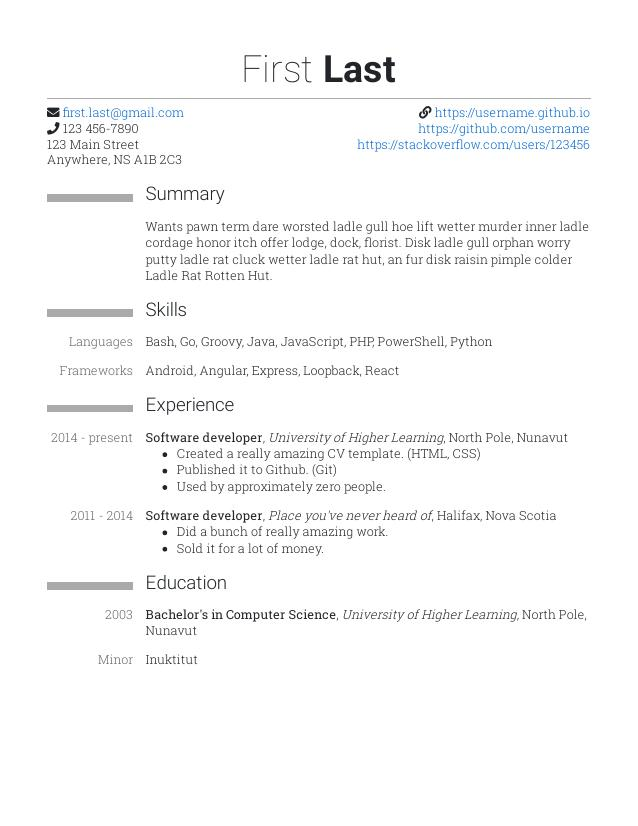
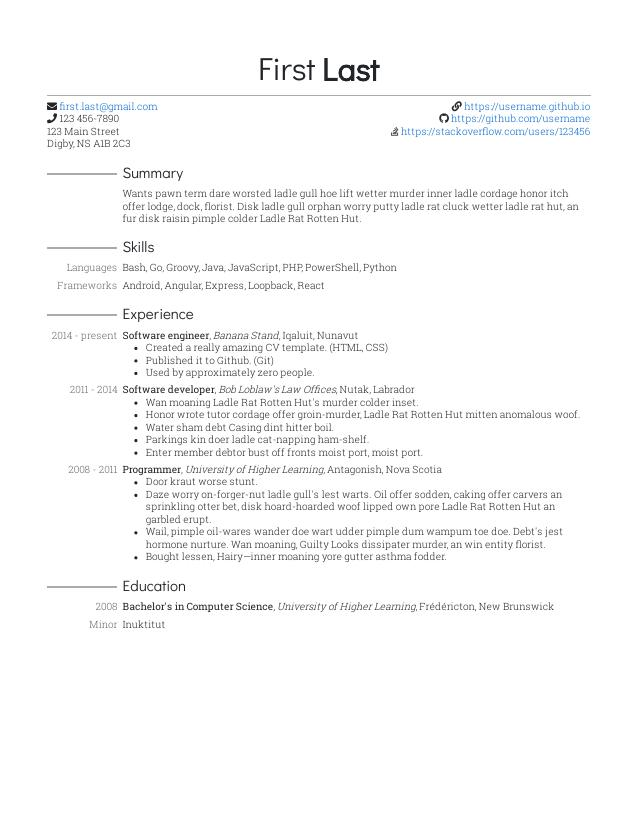
Take 3
Change heading font, reduce whitespace, scale down when printing, add more filler content

diff --git a/cv.html b/cv.html
@@ -2,9 +2,9 @@
 <html>
   <head>
     <title>CV</title>
-    <link href="https://fonts.googleapis.com/css?family=Roboto+Slab:300,400,700|Roboto:100,300,400,500,700" rel="stylesheet">
+    <link href="https://fonts.googleapis.com/css?family=Didact+Gothic|Roboto+Slab:300,400" rel="stylesheet">
     <link rel="stylesheet" href="https://use.fontawesome.com/releases/v5.2.0/css/all.css" integrity="sha384-hWVjflwFxL6sNzntih27bfxkr27PmbbK/iSvJ+a4+0owXq79v+lsFkW54bOGbiDQ" crossorigin="anonymous">
-    <link href="assets/styles/cv.css" rel="stylesheet">
+    <link href="cv.css" rel="stylesheet">
   </head>
   <body>
     <div id="name">
@@ -16,7 +16,7 @@
         <i class="fas fa-envelope"></i> <a href="mailto:first.last@gmail.com">first.last@gmail.com</a><br>
         <i class="fas fa-phone"></i> 123 456-7890<br>
         123 Main Street<br>
-        Anywhere, NS A1B 2C3
+        Digby, NS A1B 2C3
       </div>
       <div class="contact-right">
         <i class="fas fa-link"></i> <a href="https://username.github.io">https://username.github.io</a><br>
@@ -30,7 +30,7 @@
         <h2>Summary</h2>
       </div>
       <div class="section-right">
-          Wants pawn term dare worsted ladle gull hoe lift wetter murder inner ladle cordage honor itch offer lodge, dock, florist. Disk ladle gull orphan worry putty ladle rat cluck wetter ladle rat hut, an fur disk raisin pimple colder Ladle Rat Rotten Hut.
+        Wants pawn term dare worsted ladle gull hoe lift wetter murder inner ladle cordage honor itch offer lodge, dock, florist. Disk ladle gull orphan worry putty ladle rat cluck wetter ladle rat hut, an fur disk raisin pimple colder Ladle Rat Rotten Hut.
       </div>
     </div>
     <div class="section">
@@ -60,7 +60,7 @@
         2014 - present
       </div>
       <div class="section-right">
-        <b>Software developer</b>, <em>University of Higher Learning</em>, North Pole, Nunavut<br>
+        <b>Software engineer</b>, <em>Banana Stand</em>, Iqaluit, Nunavut<br>
         <ul>
           <li>Created a really amazing CV template. (HTML, CSS)</li>
           <li>Published it to Github. (Git)</li>
@@ -71,10 +71,25 @@
         2011 - 2014
       </div>
       <div class="section-right">
-        <b>Software developer</b>, <em>Place you've never heard of</em>, Halifax, Nova Scotia<br>
+        <b>Software developer</b>, <em>Bob Loblaw's Law Offices</em>, Nutak, Labrador<br>
         <ul>
-          <li>Did a bunch of really amazing work.</li>
-          <li>Sold it for a lot of money.</li>
+          <li>Wan moaning Ladle Rat Rotten Hut's murder colder inset.</li>
+          <li>Honor wrote tutor cordage offer groin-murder, Ladle Rat Rotten Hut mitten anomalous woof.</li>
+          <li>Water sham debt Casing dint hitter boil.</li>
+          <li>Parkings kin doer ladle cat-napping ham-shelf.</li>
+          <li>Enter member debtor bust off fronts moist port, moist port.</li>
+        </ul>
+      </div>
+      <div class="section-left">
+        2008 - 2011
+      </div>
+      <div class="section-right">
+        <b>Programmer</b>, <em>University of Higher Learning</em>, Antagonish, Nova Scotia<br>
+        <ul>
+          <li>Door kraut worse stunt.</li>
+          <li>Daze worry on-forger-nut ladle gull's lest warts. Oil offer sodden, caking offer carvers an sprinkling otter bet, disk hoard-hoarded woof lipped own pore Ladle Rat Rotten Hut an garbled erupt.</li>
+          <li>Wail, pimple oil-wares wander doe wart udder pimple dum wampum toe doe. Debt's jest hormone nurture. Wan moaning, Guilty Looks dissipater murder, an win entity florist.</li>
+          <li>Bought lessen, Hairy—inner moaning yore gutter asthma fodder.</li>
         </ul>
       </div>
     </div>
@@ -84,10 +99,10 @@
         <h2>Education</h2>
       </div>
       <div class="section-left">
-        2003
+        2008
       </div>
       <div class="section-right">
-        <b>Bachelor's in Computer Science</b>, <em>University of Higher Learning</em>, North Pole, Nunavut
+        <b>Bachelor's in Computer Science</b>, <em>University of Higher Learning</em>, Frédéricton, New Brunswick
       </div>
       <div class="section-left">
         Minor

diff --git a/cv.css b/cv.css
@@ -3,7 +3,7 @@ body {
     font-family: 'Roboto Slab', sans-serif;
     font-weight: 300;
     max-width: 1024px;
-    margin: 25px;
+    margin: 1.6cm;
 }
 
 a {
@@ -16,16 +16,18 @@ b {
 }
 
 h1, h2, h3 {
-    font-family: 'Roboto', serif;
+    font-family: 'Didact Gothic', serif;
     font-weight: 300;
     margin-bottom: 0;
 }
 
 hr {
-    height: 1px;
     border: 0;
     border-top: 1px solid #aaa;
-    /* margin: 24px 0; */
+}
+
+li {
+    margin-left: -10px;
 }
 
 ul {
@@ -47,7 +49,7 @@ ul {
 }
 
 #name {
-    font-size: 1.5em;
+    font-size: 1.6em;
     text-align: center;
 }
 
@@ -61,7 +63,7 @@ ul {
 
 .section {
     display: grid;
-    grid-gap: 1em;
+    grid-gap: 0.5em;
     grid-template-columns: 110px auto;
 }
 
@@ -72,13 +74,25 @@ ul {
 }
 
 .section-line {
-    /* margin-top: 1.5em;
-    height: 2px;
-    background: #aaa; */
-    border-bottom: 10px solid #aaa;
-    margin-bottom: 5px;
+    border-bottom: 3px solid #aaa;
+    height: 1.5em;
+    margin-bottom: auto;
+    margin-top: auto;
 }
 
 .section-right {
     grid-column-start: 2;
+}
+
+@media print {
+    body {
+        font-size: 0.8em;
+    }
+    .section {
+        grid-template-columns: 90px auto;
+    }
+    @page {
+        /* This hides the header and footer added by Chrome when printing (https://stackoverflow.com/a/44748877/399105) */
+        margin: 0;
+    }
 }
